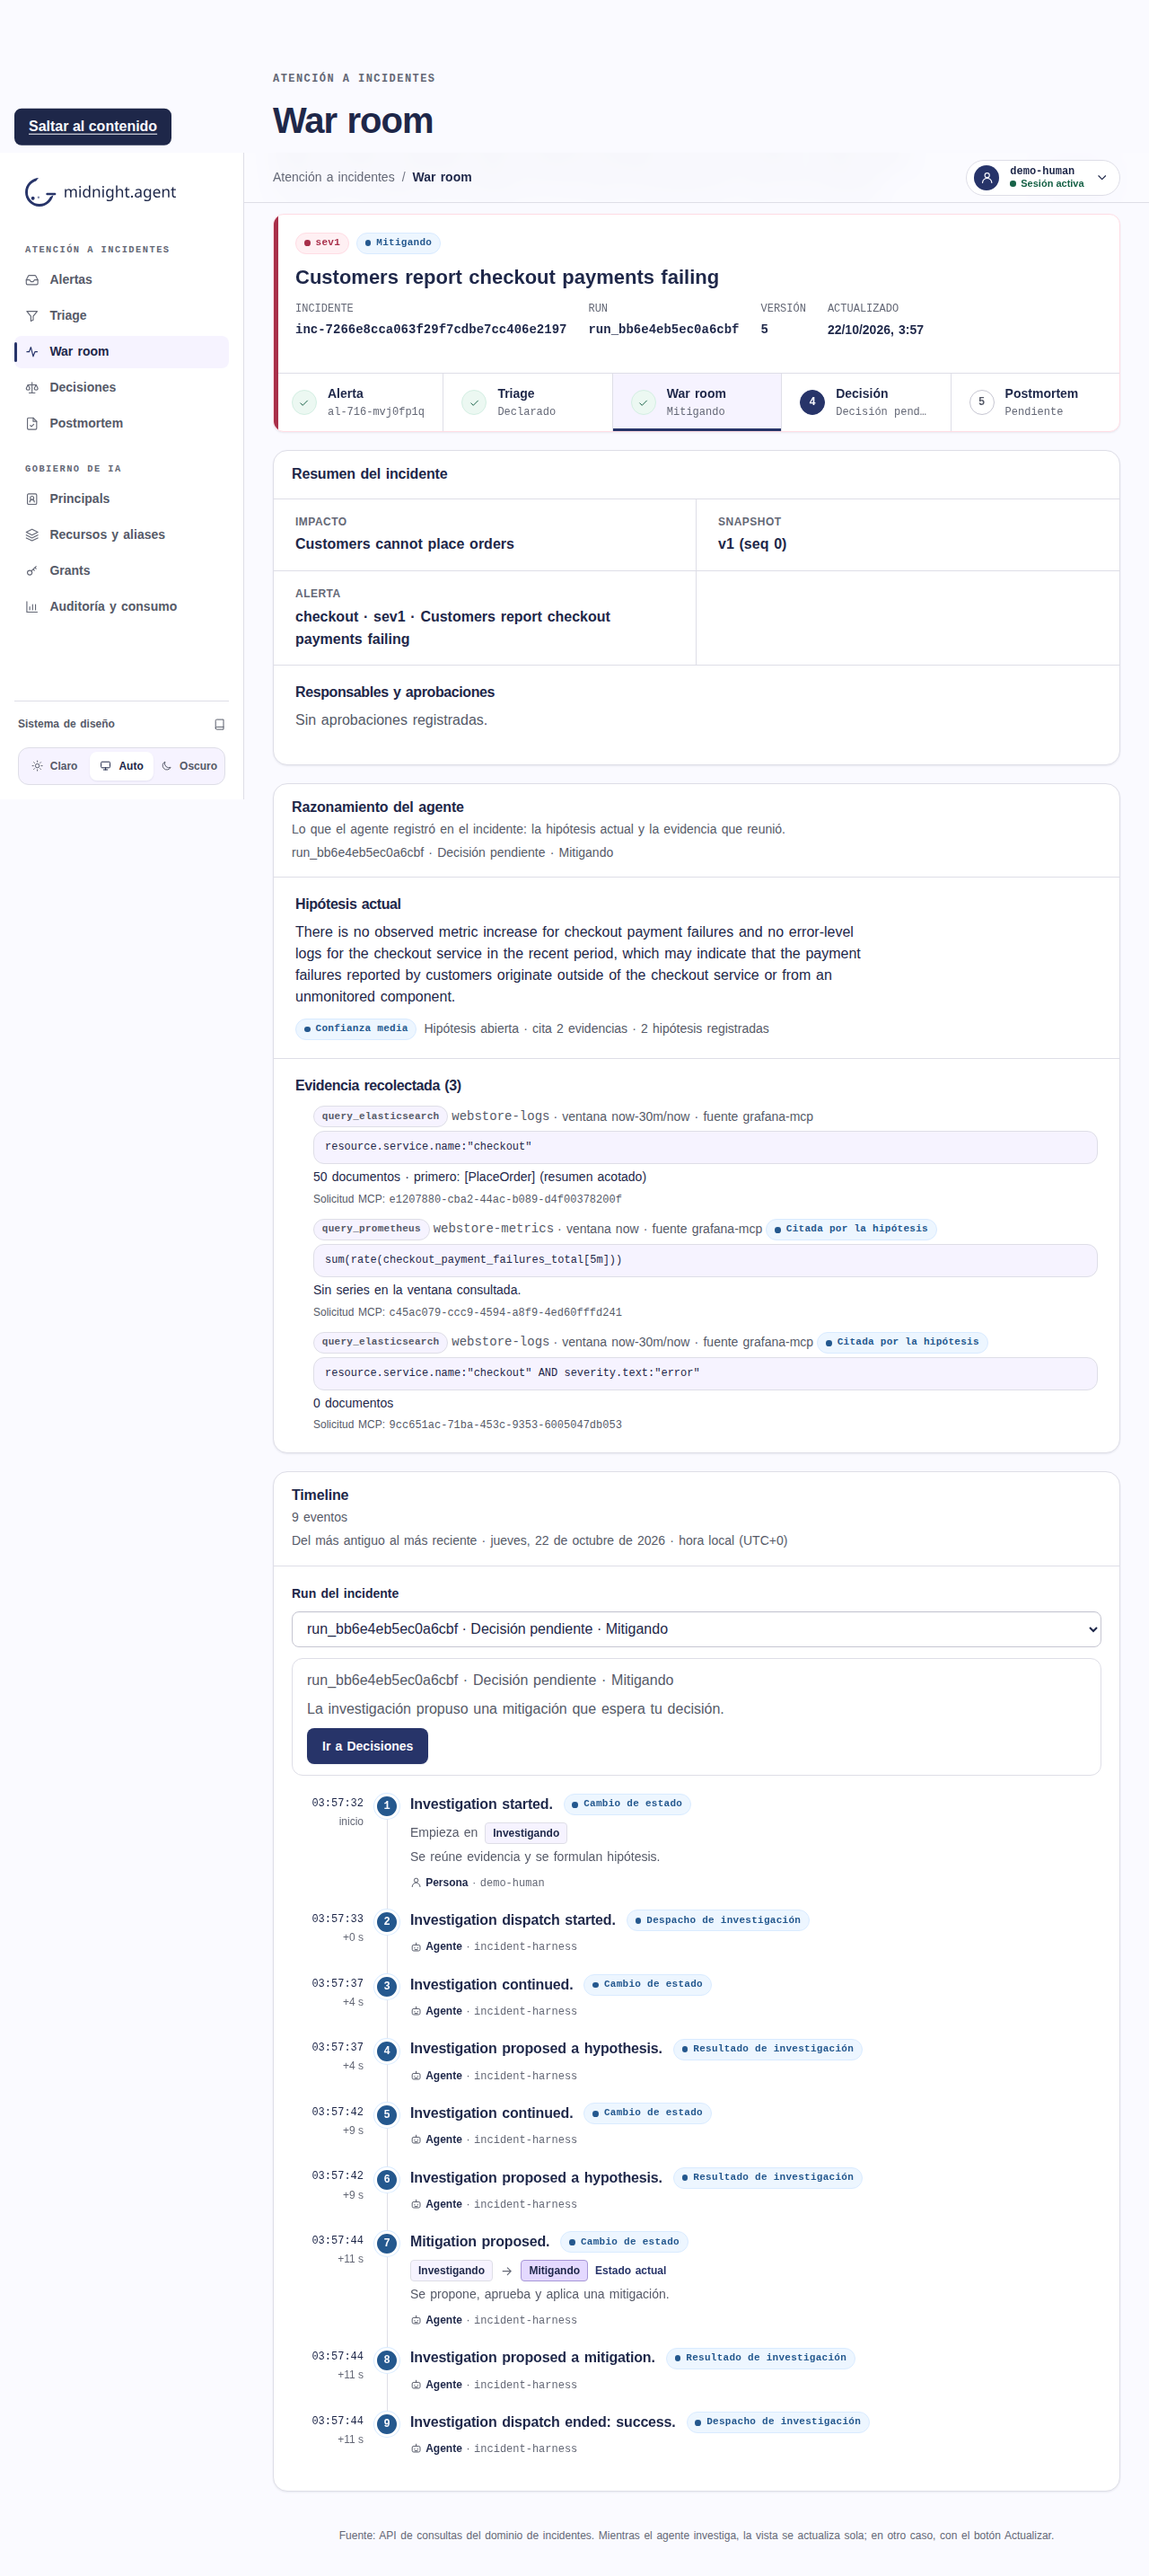
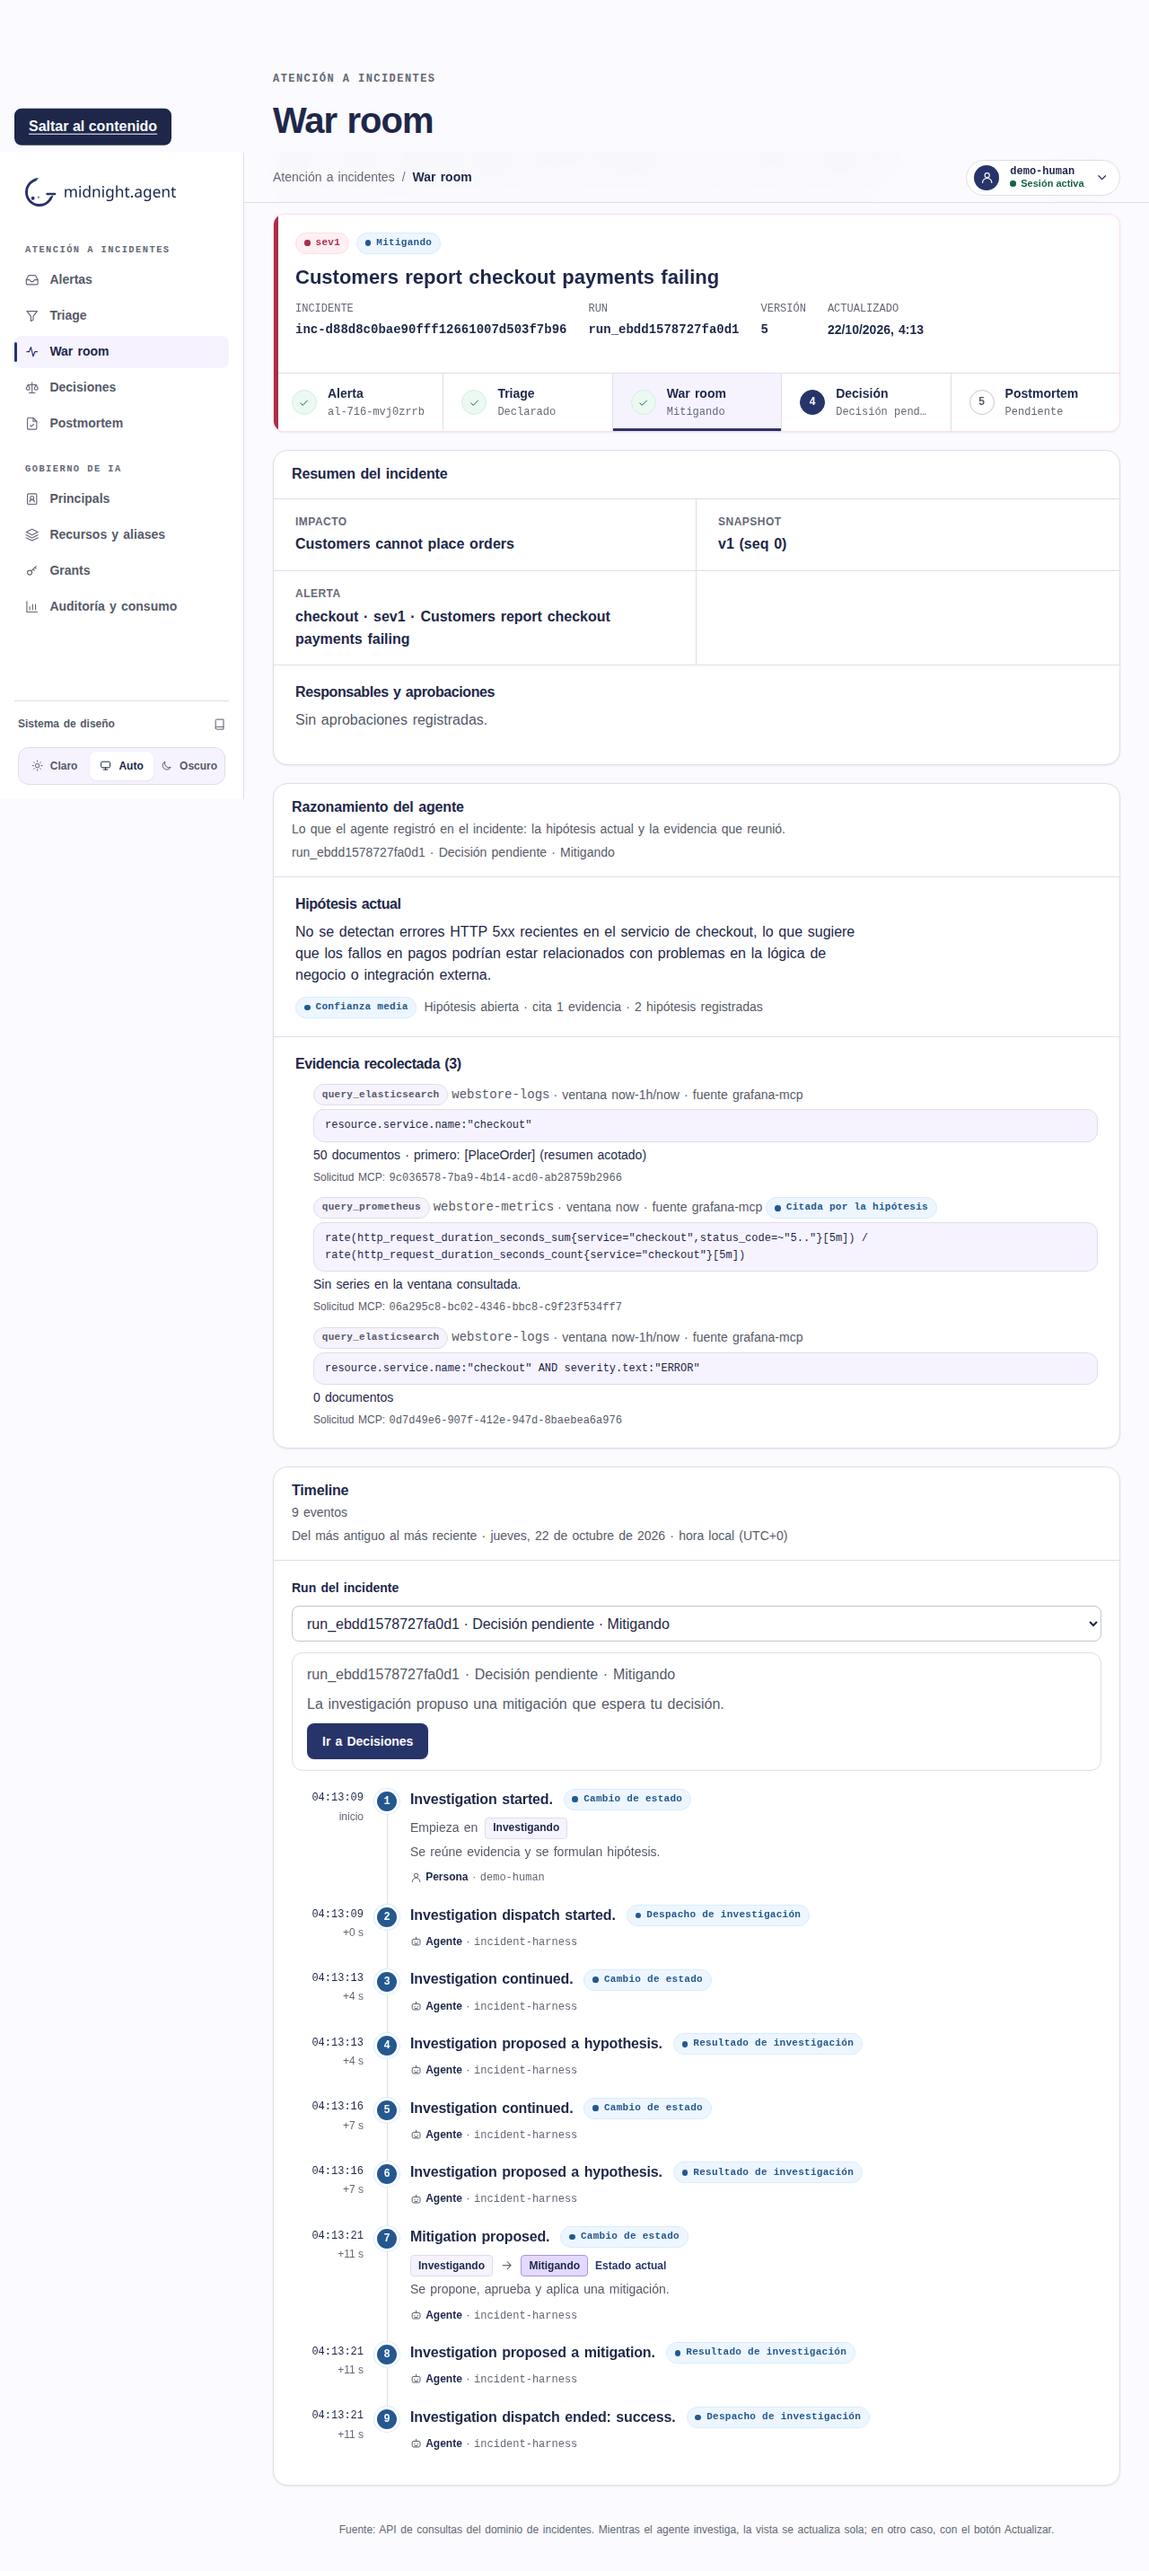
docs(evidence): record the AWS E2E at the tested SHA (#716)

diff --git a/docs/evidence/issue-716/live-runs.md b/docs/evidence/issue-716/live-runs.md
@@ -63,16 +63,21 @@ each run ended `investigation_upstream_unavailable` (stage `gateway_transport`).
 ### Passing browser E2E
 
 With the `triage-agent` route reconciled to `openai/gpt-4.1-mini` (private configuration, no code
-change), `war-room-logs-evidence-real.spec.js` passed in 13.6 s: `playwright-report-aws.json`,
-screenshot `war-room-logs-evidence-aws.png`, incident `inc-7266e8cca063f29f7cdbe7cc406e2197`,
-run `run_bb6e4eb5ec0a6cbf`.
+change), `war-room-logs-evidence-real.spec.js` passed at tested SHA
+`1855430870da5620dda785eee08debda88d19c33`: `playwright-report-aws.json`, screenshot
+`war-room-logs-evidence-aws.png`, incident `inc-d88d8c0bae90fff12661007d503f7b96`, run
+`run_ebdd1578727fa0d1`.
 
 | Evidence | Tool | Query | Docs | Services |
 | --- | --- | --- | --- | --- |
-| ev_96d3a7e9226305d6 | query_elasticsearch | `resource.service.name:"checkout"` | 50 | checkout |
-| ev_e265c88892397662 | query_prometheus | `sum(rate(checkout_payment_failures_total[5m]))` | - | - |
-| ev_674b663a93ee31ca | query_elasticsearch | `resource.service.name:"checkout" AND severity.text:"error"` | 0 | - |
+| ev_2a6a46565ae6600e | query_elasticsearch | `resource.service.name:"checkout"` | 50 | checkout |
+| ev_2cd80e8346dfcfa9 | query_prometheus | `rate(http_request_duration_seconds_sum{...status_code=~"5.."}[5m]) / ...` | - | - |
+| ev_c9b0eb7726ac233b | query_elasticsearch | `resource.service.name:"checkout" AND severity.text:"ERROR"` | 0 | - |
 
-The first hypothesis (`hyp_7b73f5826319a1ae`) cites the 50 checkout documents. The current one
-(`hyp_dbe1ea24c95c3ee1`) received them in its input, as the spec asserts, but cites the metric and
-the empty error query instead.
+The first hypothesis (`hyp_b49b24386bf63b5c`) cites the 50 checkout documents. The current one
+(`hyp_96c9fe074f1d2de0`) received them in its input, as the spec asserts, but cites the metric.
+
+Other runs at the same SHA: two failed because the model narrowed every log query with
+`severity.text`/`body` filters (0 documents each), despite the schema's advice to query the service
+alone first; one ended `needs_human` after citing 20 checkout documents, which the spec's earlier
+"Mitigando" wait rejected before it was changed to wait for the dispatch end.
